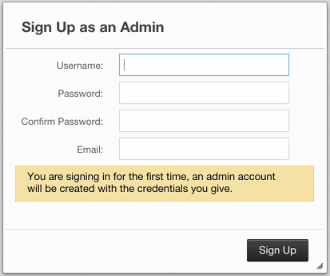
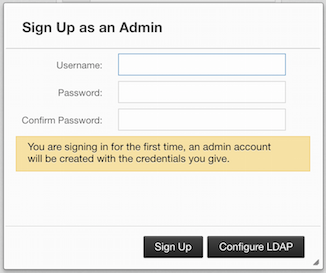
Added LDAP screenshots and reviewed PR #252

diff --git a/src/ManagementCenter.md b/src/ManagementCenter.md
@@ -70,7 +70,7 @@ Once you browse to `http://localhost:8080/mancenter` and since you are going to 
 ![image](images/NoteSmall.jpg) ***NOTE:*** *If you already created an administrator account before, a login dialog box appears instead.*
 
 
-It asks you to create a username and password and give a valid e-mail address of yours. Once you press the **Sign Up** button, your administrator account credentials are created and the following dialog box appears.
+It asks you to create a username and password. Once you press the **Sign Up** button, your administrator account credentials are created and the following dialog box appears.
 
 ![Selecting Cluster to Connect](images/ConnectCluster.png)
 
@@ -103,7 +103,11 @@ To encrypt data transmitted over all channels of Management Center using TLS/SSL
 
 ### LDAP-Active Directory Authentication
 
-You can use your existing LDAP or Active Directory server for authentication/authorization on Management Center. Click "Configure LDAP" button on Sign Up page and fill in the following details for your LDAP/Active Directory server:
+You can use your existing LDAP or Active Directory server for authentication/authorization on Management Center. Click on the "Configure LDAP" button on the Sign Up page, and the following form page appears:
+
+![LDAP Configuration](images/ConfigureLDAP.png)
+
+Provide the details in this form for your LDAP/Active Directory server:
 
 - **URL:** URL of your LDAP/Active Directory server, including schema (`ldap://` or `ldaps://`) and port.
 - **LDAP Type:** Choose `Active Directory` if you're using Microsoft Active Directory, `LDAP` for other LDAP servers such as Apache DS or Open LDAP
@@ -115,8 +119,8 @@ You can use your existing LDAP or Active Directory server for authentication/aut
 - **User Group Name:** Members of this group will have read and write privileges on Management Center.
 - **Read-only User Group Name:** Members of this group will only have read privilege on Management Center.
 - **Start TLS:** Enable if your LDAP server uses Start TLS.
-- **User Search Filter:** LDAP search filter expression to search for users. `uid={0}` searches for a username match on the `uid` attribute.
-- **Group Search Filter:** LDAP search filter expression to search for groups. `uniquemember={0}` searches for a group match on the `uid` attribute.
+- **User Search Filter:** LDAP search filter expression to search for users. For example, `uid={0}` searches for a username that matches with the `uid` attribute.
+- **Group Search Filter:** LDAP search filter expression to search for groups. For example, `uniquemember={0}` searches for a group that matches with the `uniquemember` attribute.
 
 Once configured, LDAP settings are saved in a file named `ldap.properties` under the `mancenter` folder mentioned in the previous section. If you want to update your settings afterwards, you need to update `ldap.properties` file and click "Reload LDAP Config" button on the login page. 
 
